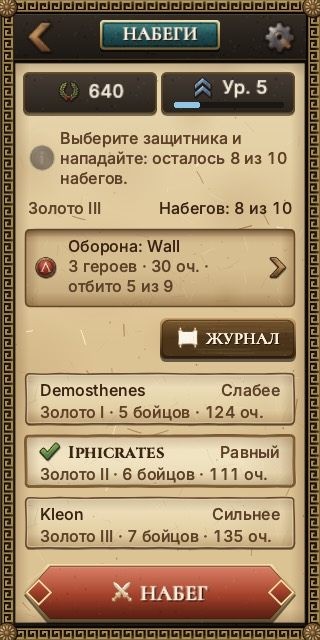
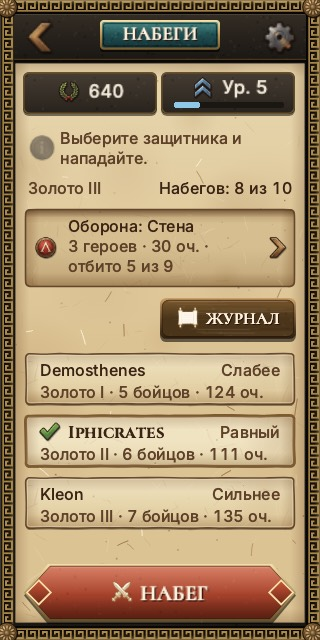
fix(duel): Raids tip without the repeated count; demo defence preset localized
Director review: the raid count showed in the tip and on the row under it; the tip now only says what to do. The demo's seeded preset 'Wall' was English in Russian: it is seeded through i18n (Стена). Player-typed names stay as typed.

Changed region(s): [[0.0625, 0.1875, 0.9375, 0.875], [0.8438, 0.2188, 0.9062, 0.25]]

diff --git a/src/scenes/duel/DuelScene.ts b/src/scenes/duel/DuelScene.ts
@@ -1593,7 +1593,7 @@ export class DuelScene extends BaseScene {
   private defenceRow(parent: Phaser.GameObjects.Container, p: DuelProfileView, a: AsyncView, x: number, y: number, w: number): number {
     const def = a.defence;
     const label = def ? t('duels.raid.defence', { team: this.loadoutName(p, p.use.defence) }) : t('duels.raid.noDefence');
-    const sub = def ? t('duels.raid.defSub', { n: def.heroes, pts: def.points, w: a.defenceWins, d: a.defences }) : t('duels.raid.noDefenceSub');
+    const sub = def ? t('duels.raid.defSub', { n: def.heroes, pts: fmtCount(def.points), w: fmtCount(a.defenceWins), d: fmtCount(a.defences) }) : t('duels.raid.noDefenceSub');
     const tw = w - 22 - 18;
     const wl = wrapText(label, tw, 1);
     const ws = wrapText(sub, tw, 2);
@@ -1908,7 +1908,7 @@ export class DuelScene extends BaseScene {
           ? t('duels.sit.raidNoDefence')
           : a.attacks.left <= 0
             ? t('duels.sit.raidCapped')
-            : t('duels.sit.raid', { n: fmtCount(a.attacks.left), max: fmtCount(a.attacks.cap) });
+            : t('d5.sit.raid');
     const main: MainAction | null = a ? { label: pick && this.m.VW >= 170 ? t('duels.raid.go', { name: pick.name }) : t('duels.raid.attack'), icon: 'swords', id: 'duel.raid.attack', off: why, onClick: () => pick && void this.raid(pick.pid) } : null;
     const { area, c, w } = this.openShell(false, this.viewTitle(), main);
     let y = 2;

diff --git a/src/duel/client.ts b/src/duel/client.ts
@@ -6,6 +6,7 @@
  * API cannot be used; the screens turn that into a state (econState).
  */
 import { online } from '../platform/cloud';
+import { t } from '../i18n';
 import { ApiError, newRequestId } from '../platform/api';
 import type { Hero } from '../data/units';
 import { isBound, itemDef, type Item, type Slot } from '../data/items';
@@ -517,7 +518,7 @@ export class DemoDuelSource implements DuelSource {
       bought: [],
       loadouts: [
         { slot: 1, name: null, team: heroes.slice(0, 6).map((h) => h.id), formations: [...DEFAULT_FORMATIONS] },
-        ...(opts.fresh ? [] : [{ slot: 2, name: 'Wall', team: [heroes[0].id, heroes[1].id, heroes[6].id], formations: [...DEFAULT_FORMATIONS] }]),
+        ...(opts.fresh ? [] : [{ slot: 2, name: t('d5.demoWall'), team: [heroes[0].id, heroes[1].id, heroes[6].id], formations: [...DEFAULT_FORMATIONS] }]),
       ],
       loadout: 1,
       use: { ladder: 1, arena: 1, defence: opts.fresh ? 1 : 2 },

diff --git a/src/i18n/duels.v5.ru.ts b/src/i18n/duels.v5.ru.ts
@@ -18,6 +18,8 @@ export const DUELS_V5_RU = {
   'd5.seasonOver': 'Сезон окончен',
   'd5.pickShort': 'Выбор предмета',
   'd5.pickSet': 'Комплект: {set}',
+  'd5.sit.raid': 'Выберите защитника и нападайте.',
+  'd5.demoWall': 'Стена',
   'd5.roster': 'Армия дуэлей · {n}/{max}',
   'd5.rosterFull': 'Мест нет: сначала отпустите кого-то из запаса',
   'd5.presetTip': '{team}: нажмите ещё раз, чтобы переименовать, скопировать, удалить или выбрать, где он воюет',

diff --git a/src/i18n/duels.v5.en.ts b/src/i18n/duels.v5.en.ts
@@ -27,6 +27,10 @@ export const DUELS_V5_EN = {
   'd5.seasonOver': 'Season over',
   'd5.pickShort': 'Choose a piece',
   'd5.pickSet': 'Set: {set}',
+  // the raids left are on the row under the tip: the tip does not repeat them
+  'd5.sit.raid': 'Pick a defender and raid.',
+  // the demo's second preset (a player-typed name is never translated)
+  'd5.demoWall': 'Wall',
   // Team (M-3)
   'd5.roster': 'Duel army · {n}/{max}',
   'd5.rosterFull': 'The roster is full: dismiss someone from the bench first',

diff --git a/docs/v5/stories/DUE-02/NOTES.md b/docs/v5/stories/DUE-02/NOTES.md
@@ -50,6 +50,7 @@ Spec: [screens-modes.md](../../../../design/ux/screens-modes.md) M-5, M-6, M-7. 
 3. **No per-player crest.** `BoardRow` carries only the league, so every row shows its league's crest. A crest per player would need a server field. This is a follow-up, not a guess.
 4. **Retry inside the card, not the fixed action.** The raid view's terracotta action stays "Raid" (disabled, with its reason). Retry is a bronze secondary (art bible 4.2).
 5. **Copy edits in `duels.v5.*.ts`.** DUE-01 created these files and it is done. The new keys (`d5.board*`, `d5.raidError`, `d5.seasonOver`, `d5.pickShort`, `d5.pickSet`) went there, next to the expired-note keys they sit beside.
+7. **Director review, Raids.** "Wall" was the demo's seeded preset name, not player-typed. The demo now seeds it through i18n (`d5.demoWall`: Wall / Стена; one line in `src/duel/client.ts`). Player-typed names are never translated. The tip no longer repeats the raids left (`d5.sit.raid`). The count stays on the row with the raid league, so that row is not empty and nothing moves into the header.
 6. **Telegram Back during a search is unchanged.** It still leaves for the Menu, as before. Only the in-game arrow is gone.
 
 ## Gates
